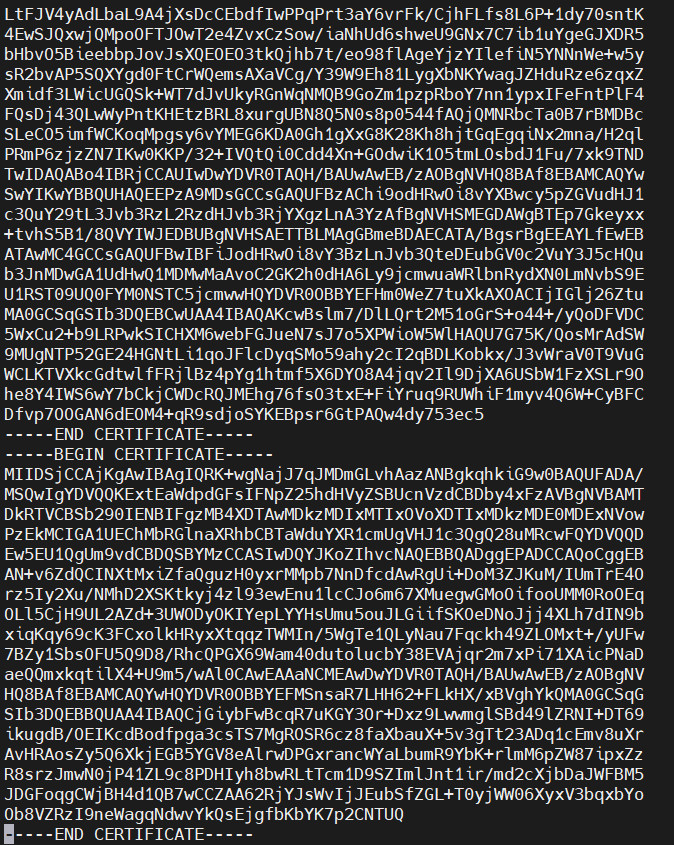
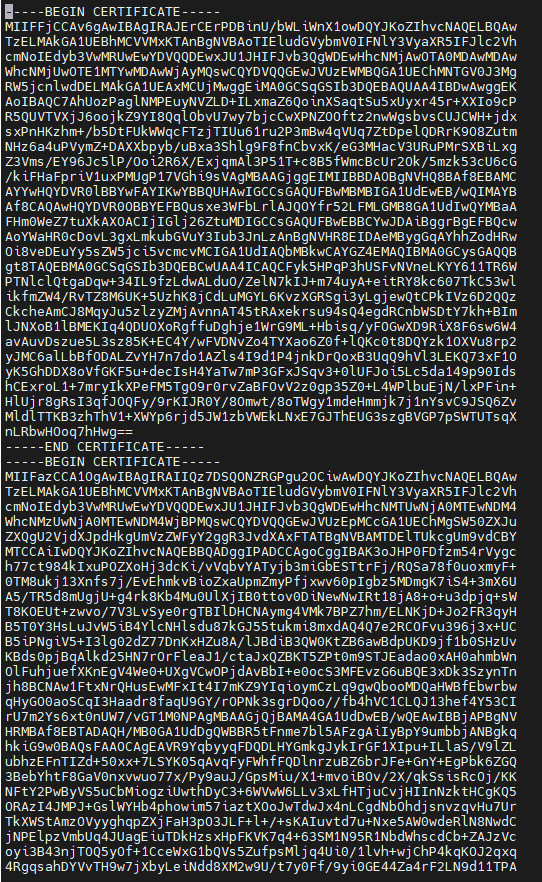
Bao cao thuc tap 15/03/2022

diff --git a/Email Zimbra/SSL Let_s Encrypt.md b/Email Zimbra/SSL Let_s Encrypt.md
@@ -41,24 +41,35 @@ Bước 5: Kiểm tra lại key đã được tạo ra trong đường dẫn `/e
 Bước 6: Mở file `/etc/letsencrypt/live/$domain/chain.pem` và chèn thêm đoạn mã sau và cuối file (Thay `$domain` bằng tên miền mail.tubui.xyz)
 ```sh
 -----BEGIN CERTIFICATE-----
[17 lines of base64/hex data omitted]
-Ob8VZRzI9neWagqNdwvYkQsEjgfbKbYK7p2CNTUQ
[29 lines of base64/hex data omitted]
 -----END CERTIFICATE-----
 ```
 
